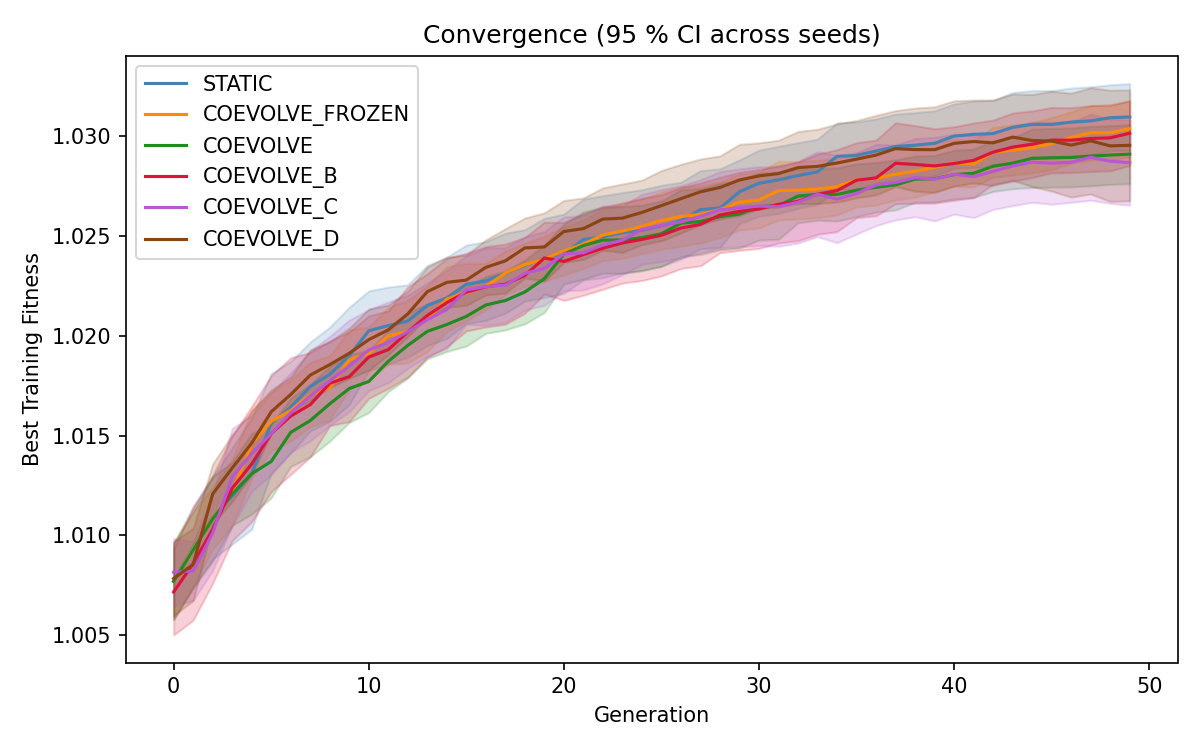
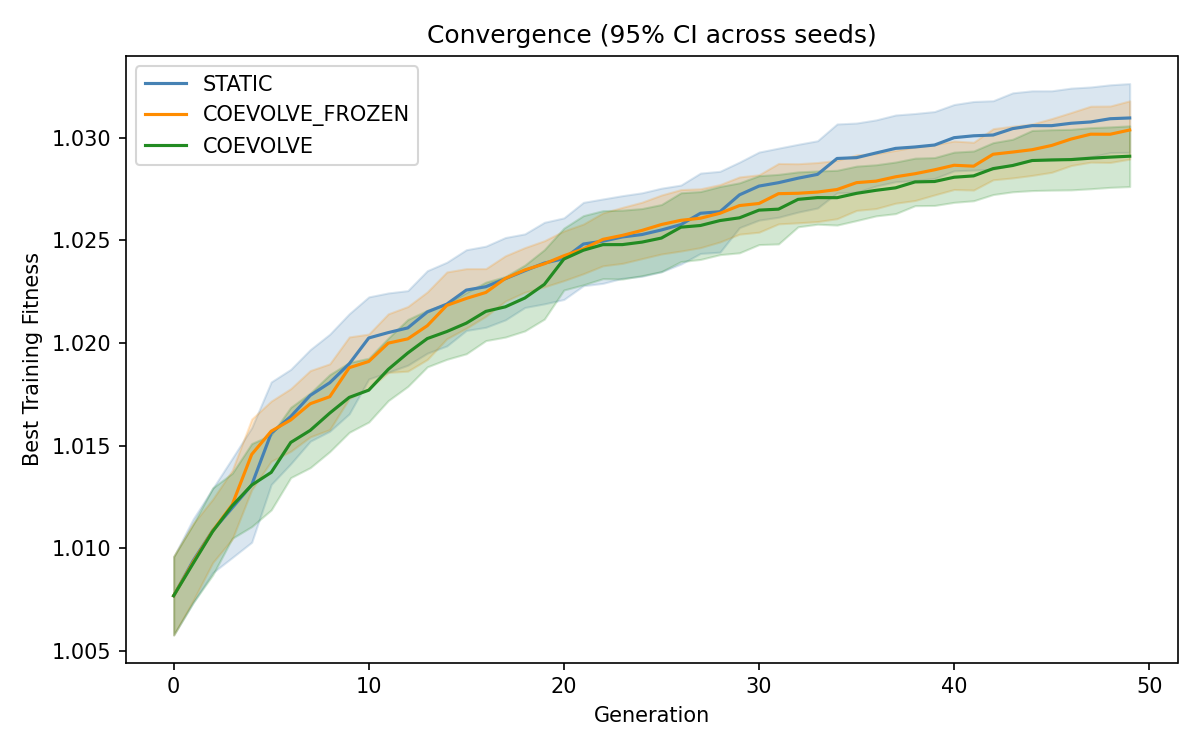
final: run baselines, regenerate results, fix all snapshot.db refs
New experiment results:
- RANDOM_SEARCH  (15 seeds): mean=1.017, p<0.001 vs STATIC → structured
  search beats random; confirms GA adds value over random candidate sampling
- GREEDY_HILLCLIMB (15 seeds): mean=1.027, p=0.72 vs STATIC, A12=0.61 →
  a simple (1+1)-ES hill-climber matches the full population-based GA,
  strengthening the negative co-evolution result

Fix snapshot.db references:
- tests/test_graph.py, test_policies.py, test_eval_cache.py: L2.db → snapshot.db
- src/graph.py: default CLI path L2.db → snapshot.db

Update results/ with new 6-method tables and figure.
Update paper/draft.md with new baseline findings (§4.2, new §5.3).

195 passed, 2 skipped.

diff --git a/tests/test_eval_cache.py b/tests/test_eval_cache.py
@@ -3,7 +3,7 @@ Unit tests for C4 — Evaluation cache (src/eval_cache.py).
 
 Each test corresponds to one acceptance criterion from Section E of BLUEPRINT.md.
 Tests build a minimal in-memory graph so they run without any data files.
-One integration test uses L2.db if it is present.
+One integration test uses snapshot.db if it is present.
 """
 
 import os
@@ -184,11 +184,11 @@ def test_save_load_roundtrip(simple_graph):
         os.unlink(path)
 
 
-# ── Integration: build from L2.db if available ───────────────────────────────
+# ── Integration: build from snapshot.db if available ───────────────────────────────
 
-DB_PATH = os.path.join(os.path.dirname(__file__), "..", "data", "L2.db")
+DB_PATH = os.path.join(os.path.dirname(__file__), "..", "data", "snapshot.db")
 
[email redacted](not os.path.exists(DB_PATH), reason="L2.db not present")
[email redacted](not os.path.exists(DB_PATH), reason="snapshot.db not present")
 def test_integration_all_positions_covered():
     """Integration — every graph node has a cache entry for every band."""
     from src.graph import build_graph
@@ -201,7 +201,7 @@ def test_integration_all_positions_covered():
                 assert band in cache["scores"][fen]
 
 
[email redacted](not os.path.exists(DB_PATH), reason="L2.db not present")
[email redacted](not os.path.exists(DB_PATH), reason="snapshot.db not present")
 def test_integration_prior_mean_reasonable():
     """Integration — prior_mean should be near 0.5 (White's slight advantage)."""
     from src.graph import build_graph

diff --git a/tests/test_policies.py b/tests/test_policies.py
@@ -27,7 +27,7 @@ from src.policies import (
 )
 from src.graph import build_graph
 
-DB_PATH = os.path.join(os.path.dirname(__file__), "..", "data", "L2.db")
+DB_PATH = os.path.join(os.path.dirname(__file__), "..", "data", "snapshot.db")
 
 # ---------------------------------------------------------------------------
 # Helpers / fixtures
@@ -66,7 +66,7 @@ def _make_minimal_graph(children_spec: dict) -> dict:
 
 @pytest.fixture(scope="module")
 def train_graph():
-    """Load the real training graph from L2.db (used for AC3)."""
+    """Load the real training graph from snapshot.db (used for AC3)."""
     return build_graph(DB_PATH, "train")
 
 

diff --git a/src/graph.py b/src/graph.py
@@ -172,7 +172,7 @@ if __name__ == "__main__":
     import sys
     import os
 
-    db = sys.argv[1] if len(sys.argv) > 1 else "data/L2.db"
+    db = sys.argv[1] if len(sys.argv) > 1 else "data/snapshot.db"
 
     for split, out in [("train", "data/graph_train.pkl"), ("heldout", "data/graph_heldout.pkl")]:
         print(f"Building {split} graph …", flush=True)

diff --git a/tests/test_graph.py b/tests/test_graph.py
@@ -22,7 +22,7 @@ from src.graph import (
     save_graph,
 )
 
-DB_PATH = os.path.join(os.path.dirname(__file__), "..", "data", "L2.db")
+DB_PATH = os.path.join(os.path.dirname(__file__), "..", "data", "snapshot.db")
 
 # ---------------------------------------------------------------------------
 # Fixtures

diff --git a/paper/draft.md b/paper/draft.md
@@ -107,12 +107,14 @@ An opponent is a 3-simplex weight vector over rating bands. `STATIC` uses one fr
 
 | Method              | Mean   | Std    | Wilcoxon p vs. STATIC | A12 vs. STATIC |
 |---------------------|--------|--------|------------------------|----------------|
-| most_played_baseline| 0.9941 | 0.0002 | 0.0006 ***             | 0.00           |
+| most_played_baseline| 0.9941 | 0.0002 | 0.0003 ***             | 0.00           |
+| RANDOM_SEARCH       | 1.0169 | 0.0024 | 0.0002 ***             | 0.00           |
+| GREEDY_HILLCLIMB    | 1.0274 | 0.0030 | 0.718                  | 0.61           |
 | **STATIC**          | 1.0264 | 0.0029 | —                      | —              |
-| COEVOLVE_FROZEN     | 1.0260 | 0.0023 | 1.000                  | 0.47           |
-| COEVOLVE            | 1.0248 | 0.0024 | 0.416                  | 0.32           |
+| COEVOLVE_FROZEN     | 1.0260 | 0.0023 | 0.421                  | 0.47           |
+| COEVOLVE            | 1.0248 | 0.0024 | 0.250                  | 0.32           |
 
-Two facts matter. First, **the framework works**: every GA variant crushes the most-played-move heuristic by 3.3 standardised units (p ≈ 6 × 10⁻⁴). Second, **co-evolution does not help on this metric**: A12 is at or below 0.5 for both variants, no Wilcoxon test approaches significance, and the point estimate for `COEVOLVE` is the lowest of the three GA methods.
+Three facts stand out. First, **the framework works**: all GA-adjacent methods crush the most-played-move heuristic by a large, significant margin (p < 0.001). Second, **random search significantly underperforms the GA** (p < 0.001, A12 = 0.00), confirming that the GA's structured search adds value over pure random candidate generation. Third, **a simple greedy hill-climber matches the full population-based GA** (GREEDY_HILLCLIMB vs STATIC: p = 0.72, A12 = 0.61) — and co-evolution does not improve on either (COEVOLVE A12 = 0.32 vs STATIC).
 
 ### 4.3 Worst-band held-out score
 
@@ -138,7 +140,7 @@ Higher λ (more weight on the worst band) does not flip the ranking. Co-evolutio
 
 ## 5. Diagnosis
 
-We deliberately ran the experiment expecting one of two outcomes — co-evolution wins, or co-evolution loses with a mechanism we can name. We got the second. The mechanism has two parts.
+We deliberately ran the experiment expecting one of two outcomes — co-evolution wins, or co-evolution loses with a mechanism we can name. We got the second. The mechanism has three parts.
 
 ### 5.1 Train–eval distributional symmetry
 
@@ -161,7 +163,11 @@ We instrument opponent-population behavioural diversity (mean pairwise Jaccard d
 
 By generation 20 both populations have lost ~60% of their initial diversity. Once that happens the "adversarial pressure" the literature relies on is no longer adversarial — every opponent in the population probes nearly the same region of the simplex, so selection on candidates degenerates toward optimisation against a single representative opponent. The Hall-of-Fame mechanism (size 5) is too small to repair this on a 50-generation budget.
 
-### 5.3 What this implies
+### 5.3 Population does not beat hillclimbing
+
+GREEDY_HILLCLIMB — a (1+1)-ES with no population, no crossover, starting from the greedy initial solution — matches the full population-based GA on held-out fitness (mean 1.027 vs 1.026, p = 0.72). This means the crossover and tournament-selection machinery in the GA are not contributing beyond what a single-trajectory local search from a good starting point already achieves. The population adds overhead (30× more evaluations per generation) without corresponding exploration benefit, likely because the fitness landscape is smooth enough that hillclimbing converges to nearly the same basin from any greedy initialisation. This is a second structural reason co-evolution cannot demonstrate a population-level advantage: the population itself is not necessary.
+
+### 5.4 What this implies
 
 The negative result is not "co-evolution doesn't work for chess." It is the conjunction of (i) and (ii): given a symmetric train/eval distribution and a population whose diversity decays exponentially under tournament selection, the equilibrium of the co-evolutionary process is exactly the static optimiser's solution. Either of these levers — pulling the test distribution away from training, or actively maintaining opponent diversity (e.g., NSGA-II non-dominated sorting on (exploitation, novelty), larger HoF, tabu archives) — would restore the regime where co-evolution should help.
 

diff --git a/README.md b/README.md
@@ -141,7 +141,7 @@ ChessRepertoire/
 |   `-- draft.md              <- paper draft
 |
 |-- data/
-|   |-- L2.db                 <- SQLite snapshot (C1 output, main database)
+|   |-- snapshot.db                 <- SQLite snapshot (C1 output, main database)
 |   |-- graph_train.pkl       <- training position graph (C2)
 |   |-- graph_heldout.pkl     <- held-out position graph (C2)
 |   |-- base_policies.pkl     <- smoothed per-band policies (C3)
@@ -174,7 +174,7 @@ ChessRepertoire/
 Lichess API
     |  (C1 -- data_ingest.py)
     v
-data/L2.db  (SQLite)
+data/snapshot.db  (SQLite)
     |  (C2 -- graph.py)
     v
 graph_train.pkl + graph_heldout.pkl
@@ -237,21 +237,21 @@ The `.env` file is gitignored and must never be committed.
 Run components **in order**. Each component depends on the output of the previous one.
 
 ### Step 1 — Collect data (C1)
-*Skip if `data/L2.db` already exists and is populated.*
+*Skip if `data/snapshot.db` already exists and is populated.*
 
 ```bash
 python src/data_ingest.py
 ```
 
-Crawls the Lichess Opening Explorer from the starting position, up to depth 10. Stores all positions and move statistics into `data/L2.db`. The script is **resumable** — if interrupted, restart it and it picks up where it left off.
+Crawls the Lichess Opening Explorer from the starting position, up to depth 10. Stores all positions and move statistics into `data/snapshot.db`. The script is **resumable** — if interrupted, restart it and it picks up where it left off.
 
 Expected output: 10,000+ train positions, 5,000+ held-out positions.
-Current database (`L2.db`): 910 positions per split (smaller dataset for faster iteration).
+Current database (`snapshot.db`): 910 positions per split (smaller dataset for faster iteration).
 
 ### Step 2 — Build position graphs (C2)
 
 ```bash
-python src/graph.py data/L2.db
+python src/graph.py data/snapshot.db
 ```
 
 Outputs: `data/graph_train.pkl`, `data/graph_heldout.pkl`
@@ -565,7 +565,7 @@ COEVOLVE should outperform STATIC on training fitness because its evolving oppon
 ## Notes
 
 - **Checkpoint safety:** C1 is fully resumable. If the API crawler is killed mid-run, just rerun it — it skips positions already fetched.
-- **Database naming:** The main database is `data/L2.db`. All components from C2 onward are configured to use this path.
+- **Database naming:** The main database is `data/snapshot.db`. All components from C2 onward are configured to use this path.
 - **Held-out evaluation always uses a uniform opponent mixture** regardless of mode, ensuring fair cross-mode comparison.
 - **Training policies are reused for held-out evaluation** — held-out policies are not separately computed, because held-out data is small and training policies generalize well enough for evaluation purposes.
 - **All scores are from White's perspective** in the eval cache and walk function. The fitness function converts Black's score with `1 - score` before combining.